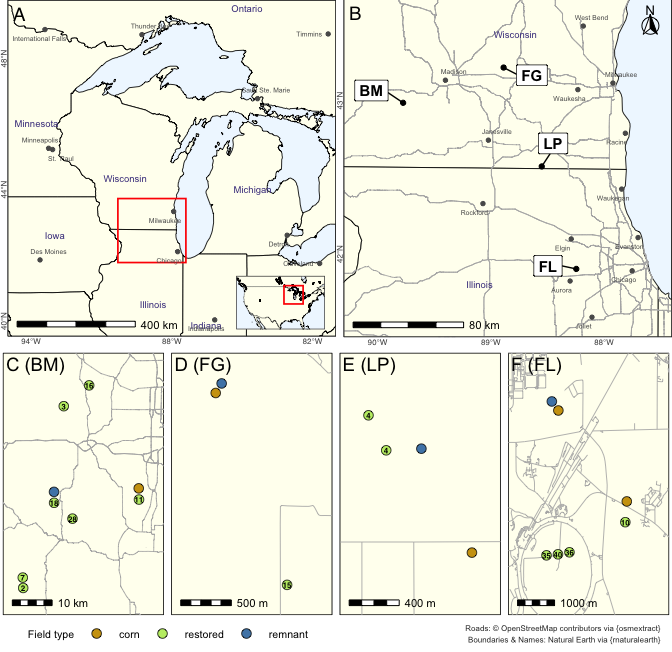
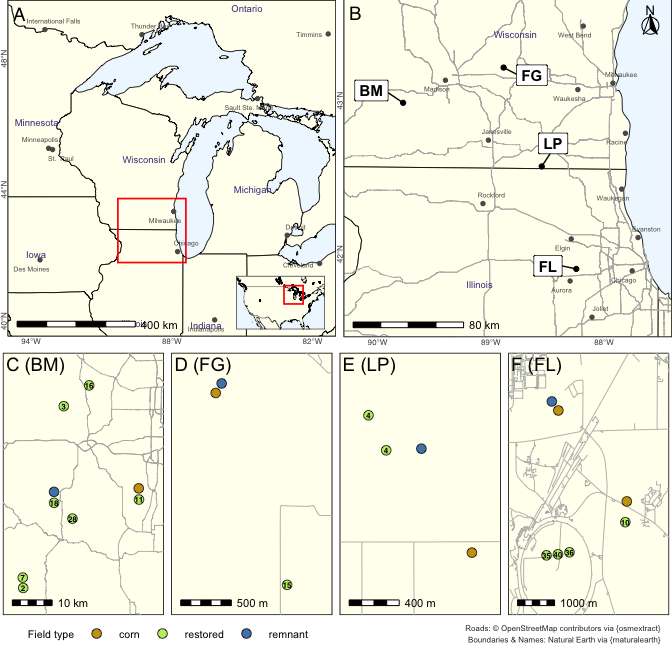
REFRESHED reports

diff --git a/fungal_ecology.md b/fungal_ecology.md
@@ -4685,10 +4685,6 @@ list(
   kable(format = "pandoc", caption = "Significant conditioning variables in db-RDA")
 ```
 
-    ## Warning: The column name SumOfSqs in ANOVA output was not recognized or transformed.
-    ## The column name SumOfSqs in ANOVA output was not recognized or transformed.
-    ## The column name SumOfSqs in ANOVA output was not recognized or transformed.
-
 | guild       | term | pseudo_F\_(df) | p.value |  p.adj |
 |:------------|:-----|:---------------|--------:|-------:|
 | all_fungi   | MEM2 | 1.825 (1, 9)   |  0.0205 | 0.0353 |
@@ -4720,11 +4716,6 @@ list(
   arrange(guild, p.value) %>% 
   kable(format = "pandoc", caption = "Selected constraining variables in db-RDA")
 ```
-
-    ## Warning: The column name SumOfSqs in ANOVA output was not recognized or transformed.
-    ## The column name SumOfSqs in ANOVA output was not recognized or transformed.
-    ## The column name SumOfSqs in ANOVA output was not recognized or transformed.
-    ## The column name SumOfSqs in ANOVA output was not recognized or transformed.
 
 | guild       | term    | pseudo_F\_(df) | p.value |  p.adj |
 |:------------|:--------|:---------------|--------:|-------:|

diff --git a/edaphic.md b/edaphic.md
@@ -288,11 +288,11 @@ forward.sel(soil_z, mem, alpha = 0.05, nperm = 1999)
     ## Testing variable 1
     ## Testing variable 2
     ## Testing variable 3
-    ## Procedure stopped (alpha criteria): pvalue for variable 3 is 0.129500 (> 0.050000)
+    ## Procedure stopped (alpha criteria): pvalue for variable 3 is 0.123000 (> 0.050000)
 
     ##   variables order        R2     R2Cum  AdjR2Cum        F pvalue
     ## 1      MEM3     3 0.1758088 0.1758088 0.1365616 4.479525  5e-04
-    ## 2      MEM1     1 0.1379889 0.3137977 0.2451775 4.021814  1e-03
+    ## 2      MEM1     1 0.1379889 0.3137977 0.2451775 4.021814  5e-04
 
 ``` r
 soil_mem_rda <- rda(soil_z, mem[, c(1,3)])
